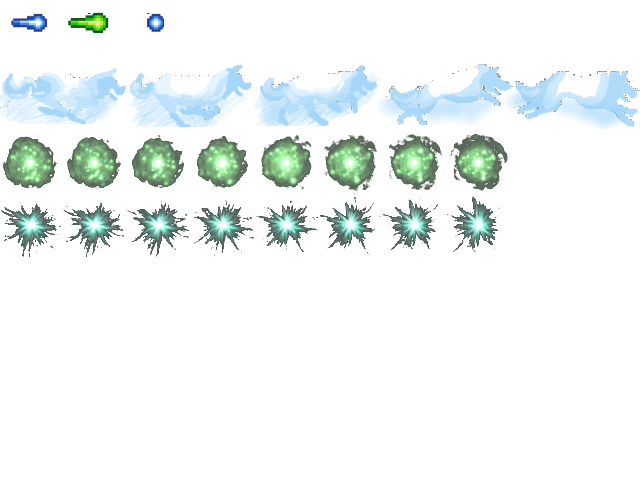
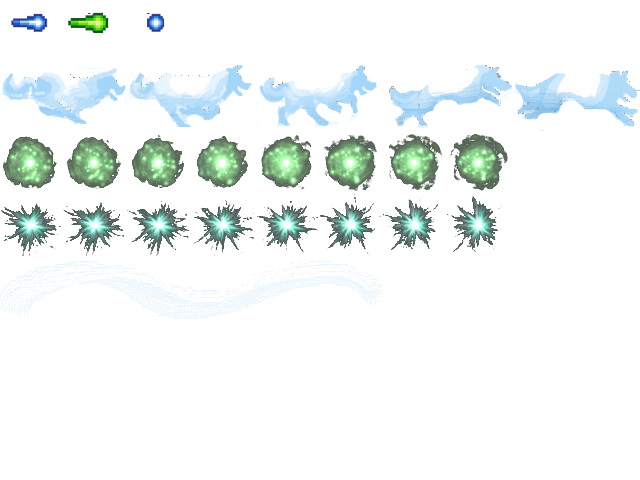
game v-1.0

diff --git a/src/states/Base.java b/src/states/Base.java
@@ -17,7 +17,8 @@ import org.newdawn.slick.state.StateBasedGame;
 
 import entities.Entity;
 import entities.Player;
-import entities.hostile.DummyEnemy;
+import entities.hostile.Enemy;
+import entities.hostile.EnemyFactory;
 import entities.inanimate.Inanimate;
 import entities.inanimate.InanimateFactory;
 import entities.projectile.Patronous;
@@ -57,11 +58,12 @@ public class Base extends BasicGameState{
 	
 	InanimateFactory infac;
 	SFXFactory sfxfac;
+	EnemyFactory enemyfac;
 	
 	public Base(int state, String map){
 		super();
-		x = -(21 << 6) + 640/2;		//21
-		y = -(19 << 6) + 480/2;		//19
+		x = -(10 << 6) + 640/2;		//21
+		y = -(18 << 6) + 480/2;		//19
 		this.state = state;
 		this.map = map;
 		
@@ -71,6 +73,7 @@ public class Base extends BasicGameState{
 	public void init(GameContainer gc, StateBasedGame sbg) throws SlickException {
 		infac = new InanimateFactory();
 		sfxfac = new SFXFactory();
+		enemyfac = new EnemyFactory();
 		
 		entityList = new LinkedList <Entity>();
 		enemyList = new LinkedList <Entity> ();
@@ -78,11 +81,11 @@ public class Base extends BasicGameState{
 		enemyProjectileList = new LinkedList <Entity> ();
 		sfxList = new LinkedList <Entity> ();
 		
-		DummyEnemy enemy = new DummyEnemy((25 << 6), (15 << 6));
+		//DummyEnemy enemy = new DummyEnemy((25 << 6), (15 << 6), true);
 		
-		enemyList.add(enemy);
+		//enemyList.add(enemy);
 		
-		loadTerrain();
+		loadEntity();
 		
 		try{
 			background = new Image("background.png");
@@ -234,6 +237,7 @@ public class Base extends BasicGameState{
 		while(it.hasNext()){
 			Entity p = it.next();
 			if(!p.isAlive()){
+				sfxList.add(sfxfac.getSFX((int) p.getX(), (int) p.getY(), "apparate", "green"));
 				it.remove();
 			}
 			p.action(entityList, enemyProjectileList, (int)(delta * speed));
@@ -246,9 +250,10 @@ public class Base extends BasicGameState{
 		Iterator<Entity> it = playerProjectileList.iterator();
 		while(it.hasNext()){
 			Entity p = it.next();
+			
 			if(!p.isAlive()){
 				if(!p.toString().equals("patronus"))
-				sfxList.add(sfxfac.getSFX((int)p.getX(), (int)p.getY() - 10, "particle", "blue"));
+					sfxList.add(sfxfac.getSFX((int)p.getX(), (int)p.getY() - 10, "particle", "blue"));
 				it.remove();
 			}
 			p.action(enemyList, (int)(2*delta*speed));
@@ -307,7 +312,7 @@ public class Base extends BasicGameState{
 		
 	}
 
-	private void loadTerrain(){
+	private void loadEntity(){
 		try {
 			terrainMap = ImageIO.read(getClass().getResourceAsStream(map));
 		} catch (IOException e) {
@@ -318,6 +323,9 @@ public class Base extends BasicGameState{
 				Inanimate inanim = infac.getInanimateObject(i, j, terrainMap.getRGB(i, j));
 				if(inanim != null)
 					entityList.add(inanim);
+				Enemy enemy = enemyfac.getEnemy(i, j, terrainMap.getRGB(i, j));
+				if(enemy != null)
+					enemyList.add(enemy);
 			}
 		}
 	}

diff --git a/src/entities/hostile/DummyEnemy.java b/src/entities/hostile/DummyEnemy.java
@@ -3,7 +3,6 @@ package entities.hostile;
 import java.util.LinkedList;
 
 import org.newdawn.slick.Animation;
-import org.newdawn.slick.SlickException;
 import org.newdawn.slick.SpriteSheet;
 
 import entities.Entity;
@@ -13,9 +12,13 @@ public class DummyEnemy extends Enemy{
 	
 	int health = 3;
 	int shooting = 0;
+	boolean standing ;
 	
-	public DummyEnemy(float x, float y) {
+	public DummyEnemy(float x, float y, boolean standing, SpriteSheet sh) {
 		super(x, y);
+		
+		this.standing = standing;
+		this.sh = sh;
 		
 		movingLeft = new Animation(); movingLeft.setAutoUpdate(true);
 		movingRight = new Animation(); movingRight.setAutoUpdate(true);
@@ -26,24 +29,25 @@ public class DummyEnemy extends Enemy{
 		offsetX = 20;
 		offsetY = 17;
 		
-		try{
-			sh = new SpriteSheet("enemy1.png",64, 64);
-		}catch(SlickException e){
-			e.printStackTrace();
-		}
-		
 		loadAnimation();
 		
 		setHitBox();
 	}
 	@Override
 	public void loadAnimation(){
-
-		int row = 1;
-		for(int col = 0 ; col < 10 ; col++){
-			
-			movingRight.addFrame(sh.getSprite(col, row), 100);
-			movingLeft.addFrame(sh.getSprite(col, row).getFlippedCopy(true, false), 100);
+		if(standing){
+			movingRight.addFrame(sh.getSprite(4, 0), 400);
+			movingRight.addFrame(sh.getSprite(0, 0), 400);
+			movingLeft.addFrame(sh.getSprite(4, 0).getFlippedCopy(true, false), 400);
+			movingLeft.addFrame(sh.getSprite(0, 0).getFlippedCopy(true, false), 400);
+		}
+		else{	
+			int row = 1;
+			for(int col = 0 ; col < 10 ; col++){
+				
+				movingRight.addFrame(sh.getSprite(col, row), 100);
+				movingLeft.addFrame(sh.getSprite(col, row).getFlippedCopy(true, false), 100);
+			}
 		}
 		
 		damageRight.addFrame(sh.getSprite(2, 0), 100);
@@ -98,7 +102,7 @@ public class DummyEnemy extends Enemy{
 		}
 		updateHitBox();
 				
-		if(!collision && !falling && !damageStatus){
+		if(!collision && !falling && !damageStatus && !standing){
 			if(direction.equals("left"))
 				x -= delta;
 			else x += delta;

diff --git a/src/entities/sfx/ApparateSFX.java b/src/entities/sfx/ApparateSFX.java
@@ -1,0 +1,68 @@
+package entities.sfx;
+
+import org.newdawn.slick.Animation;
+import org.newdawn.slick.Graphics;
+import org.newdawn.slick.SpriteSheet;
+
+import entities.Entity;
+
+public class ApparateSFX extends Entity{
+
+	private String color;
+	private int alive;
+	
+	public ApparateSFX(float x, float y, String color, SpriteSheet sh) {
+		super(x, y);
+		this.color = color;
+		this.sh = sh;
+		
+		alive = 16;
+		
+		anim = new Animation(); anim.setAutoUpdate(true);
+		
+		loadAnimation();
+	}
+	
+	@Override
+	public boolean isAlive(){
+		if(alive > 0)
+			alive--;
+		if(alive == 0) return false;
+		return true;
+	}
+	
+	public void loadAnimation(){
+		
+		
+		int row = 0;
+		if(color.equals("green")) row = 2;
+		else if(color.equals("blue")) row = 3;
+		
+		for(int i = 0; i < 5 ; i++){
+			anim.addFrame(sh.getSprite(i, row), 50);
+		}
+		
+	}
+
+	@Override
+	public void update(float x, float y) {
+		
+	}
+
+	@Override
+	public void render(float x, float y) {
+		
+		anim.draw(this.x + x, this.y + y);		
+	}
+
+	@Override
+	protected void setHitBox() {
+			
+	}
+
+	@Override
+	public void render(Graphics g) {
+		
+	}
+	
+}

diff --git a/src/entities/sfx/SFXFactory.java b/src/entities/sfx/SFXFactory.java
@@ -3,23 +3,31 @@ package entities.sfx;
 import org.newdawn.slick.SlickException;
 import org.newdawn.slick.SpriteSheet;
 
+import entities.Entity;
+
 public class SFXFactory {
-	SpriteSheet sh;
+	SpriteSheet sh_projectiles;
+	SpriteSheet sh_enemy1;
 	
 	public SFXFactory(){
 
 		try{
-			sh = new SpriteSheet("projectiles.png",64, 64);
+			sh_projectiles = new SpriteSheet("projectiles.png",64, 64);
+			sh_enemy1 = new SpriteSheet("enemy1.png",64,64);
 		}catch(SlickException e){
 			e.printStackTrace();
 		}
 
 	}
 	
-	public SFX getSFX(int x, int y,String type, String color){
+	public Entity getSFX(int x, int y,String type, String color){
 		if(type.equals("particle")){
-			return new SFX(x,y,color,sh);
+			return new SFX(x,y,color,sh_projectiles);
 		}
+		else if(type.equals("apparate")){
+			return new ApparateSFX(x,y,color,sh_enemy1);
+		}
+		
 		return null;
 	}
 }

diff --git a/src/entities/hostile/EnemyFactory.java b/src/entities/hostile/EnemyFactory.java
@@ -1,0 +1,23 @@
+package entities.hostile;
+
+import org.newdawn.slick.SlickException;
+import org.newdawn.slick.SpriteSheet;
+
+public class EnemyFactory {
+	private SpriteSheet sh_enemy1;
+	
+	public EnemyFactory(){
+		try{
+			sh_enemy1 = new SpriteSheet("enemy1.png",64, 64);
+		}catch(SlickException e){
+			e.printStackTrace();
+		}
+	}
+	
+	public Enemy getEnemy(int x, int y, int color){
+		if(color == 0xFFFF0F0F) return new DummyEnemy((x << 6),(y << 6),true, sh_enemy1);
+		else if(color == 0xFFFF0000) return new DummyEnemy((x << 6),(y << 6),false, sh_enemy1);
+		
+		return null;
+	}
+}
